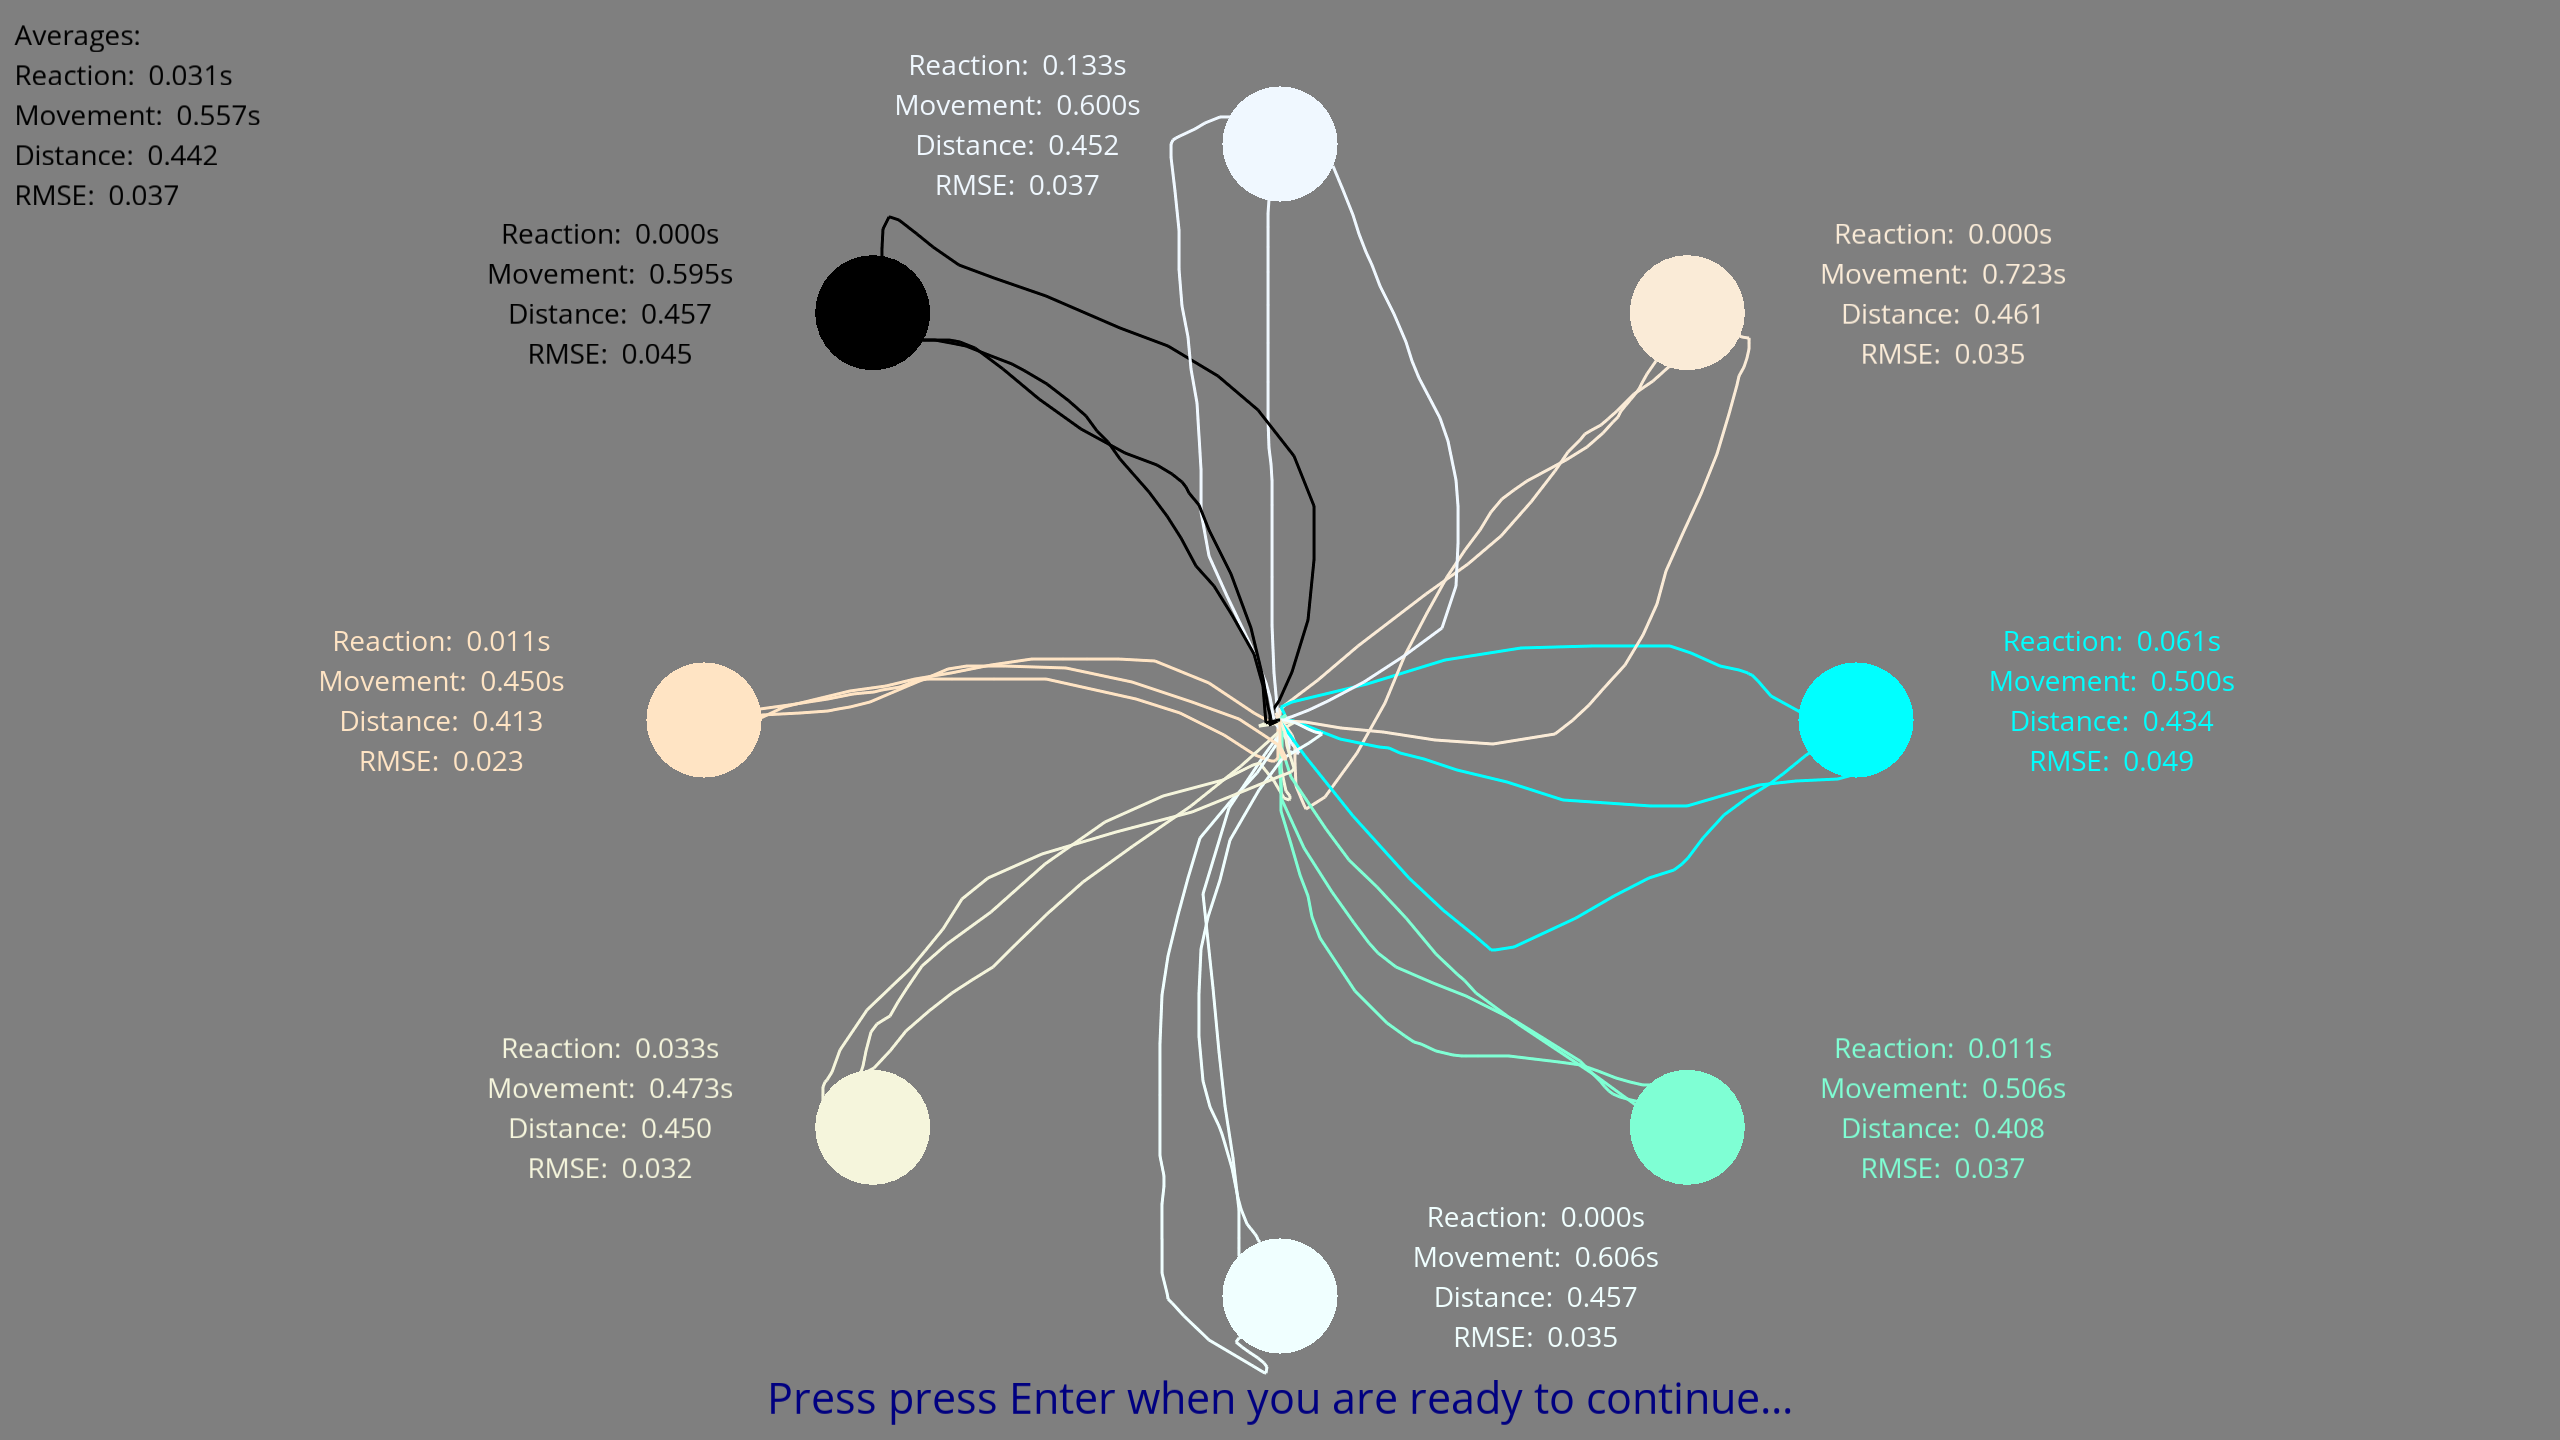
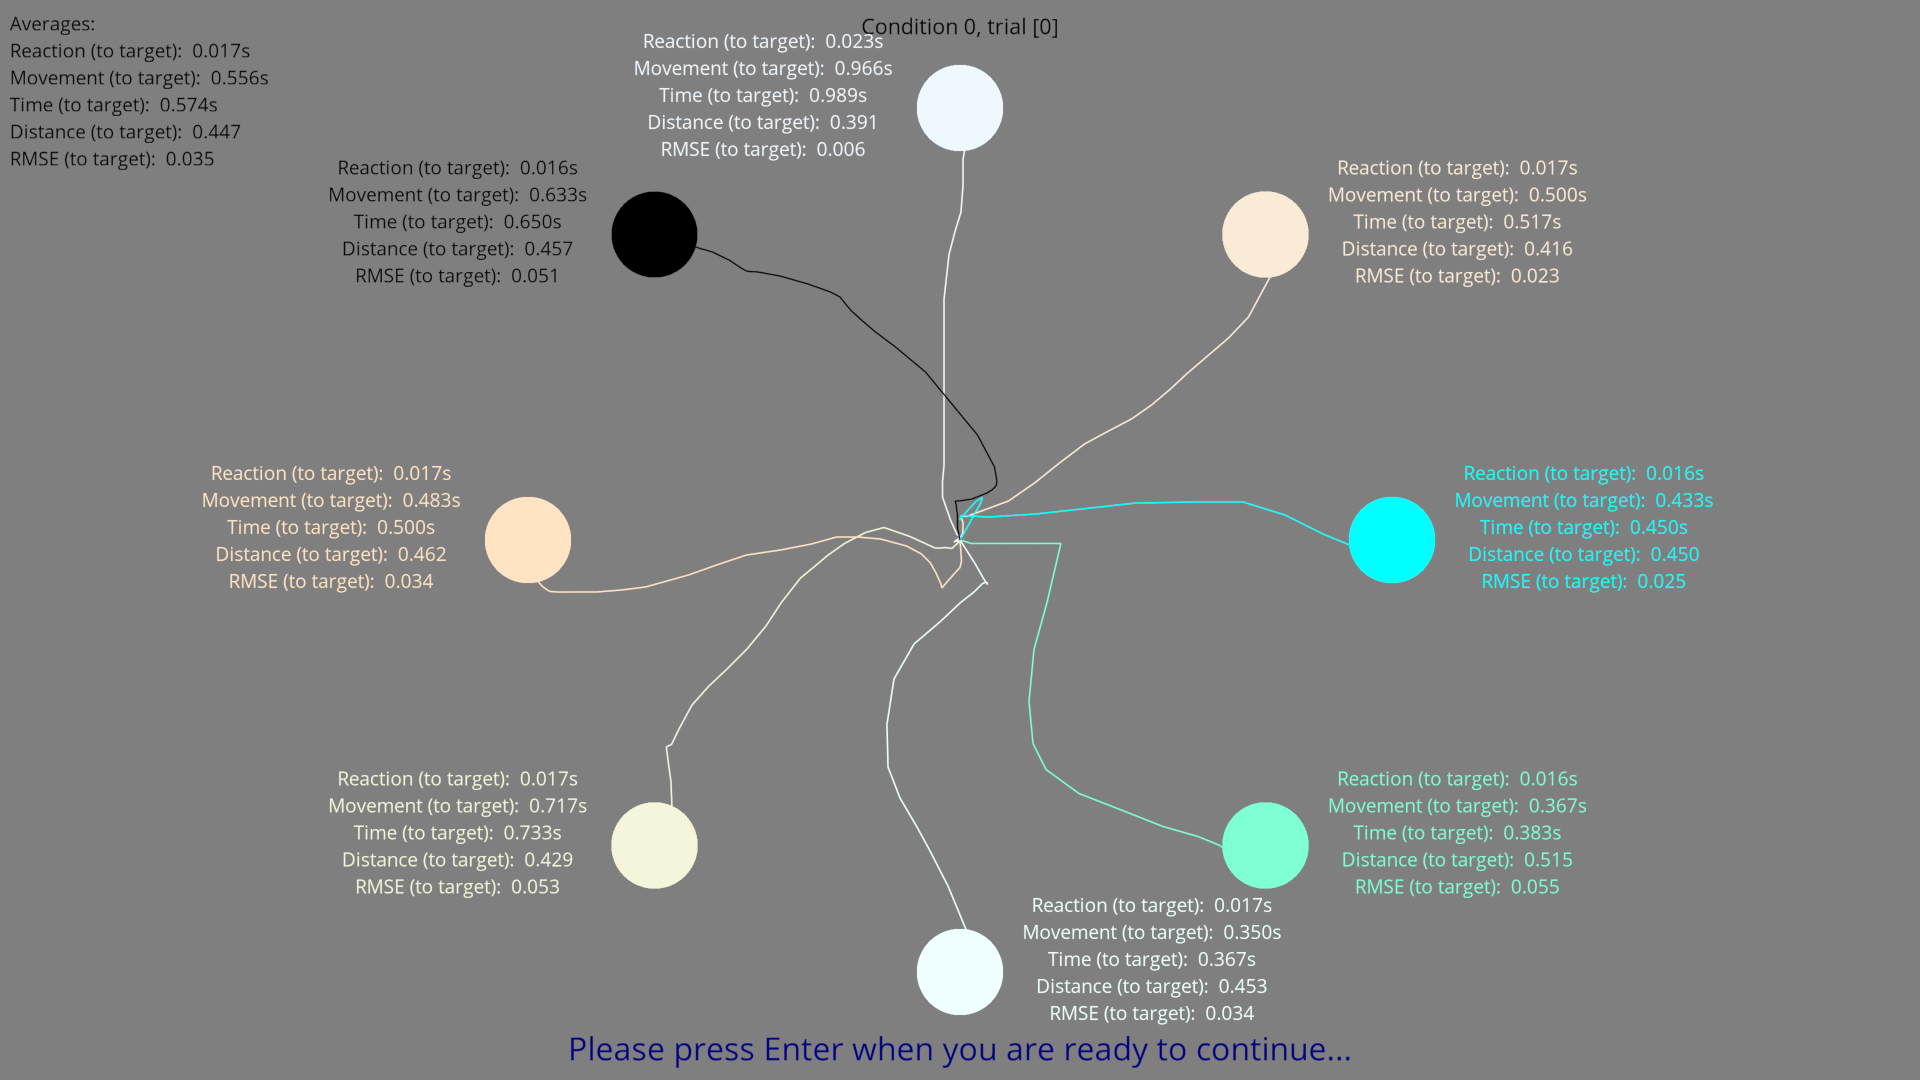
Update docs for first release
- update installation instructions
- update and rename install/update windows batch files
- update all screenshots, resolves #178

diff --git a/docs/conf.py b/docs/conf.py
@@ -15,9 +15,9 @@ sys.path.insert(0, os.path.abspath("../"))
 
 # -- Project information -----------------------------------------------------
 
-project = "vstt"
-copyright = "xxx"
-author = "xxx"
+project = "Visuomotor Serial Targeting Task"
+copyright = "2022"
+author = "SSC"
 
 
 # -- General configuration ---------------------------------------------------

diff --git a/src/vstt/__init__.py b/src/vstt/__init__.py
@@ -5,4 +5,4 @@ __all__ = [
     "__version__",
 ]
 
-__version__ = "0.24.0"
+__version__ = "0.25.0"

diff --git a/docs/quickstart/install.rst b/docs/quickstart/install.rst
@@ -4,9 +4,9 @@ Installation
 Windows with standalone Psychopy (recommended)
 ----------------------------------------------
 
-* Install `StandalonePsychoPy <https://github.com/psychopy/psychopy/releases/download/2022.2.4/StandalonePsychoPy-2022.2.4-win64.exe>`_
-* Download `UpdatePrototype.bat <https://github.com/ssciwr/vstt/releases/download/latest/UpdatePrototype.bat>`_ and double-click on it
-* Download `RunPrototype.bat <https://github.com/ssciwr/vstt/releases/download/latest/RunPrototype.bat>`_ and double-click on it
+* Install `StandalonePsychoPy <https://github.com/psychopy/psychopy/releases/download/2023.1.2/StandalonePsychoPy-2023.1.2-win64.exe>`_
+* Download `UpdateVSTT.bat <https://github.com/ssciwr/vstt/releases/download/latest/UpdateVSTT.bat>`_ and double-click on it
+* Download `VSTT.bat <https://github.com/ssciwr/vstt/releases/download/latest/VSTT.bat>`_ and double-click on it
 
 .. note::
    * Your browser might warn you about downloading batch files
@@ -15,29 +15,25 @@ Windows with standalone Psychopy (recommended)
    * The first time you run it you might get a "Windows protected your PC" message
       * This is also normal for a .bat file
       * Click more info -> run anyway
-   * What does `UpdatePrototype.bat` do?
-      * This installs the latest version of the prototype into your Psychopy Python environment using pip
-      * It runs this command: ``"C:\Program Files\PsychoPy\python.exe" -m pip install https://github.com/ssciwr/vstt/releases/download/latest/vstt-latest-py3-none-any.whl``
-   * What does `RunPrototype.bat` do?
-      * This runs the prototype using your Psychopy Python environment
+   * What does `UpdateVSTT.bat` do?
+      * This installs the latest version of VSTT into your Psychopy Python environment using pip
+      * It runs this command: ``"C:\Program Files\PsychoPy\python.exe" -m pip install --upgrade vstt``
+   * What does `VSTT.bat` do?
+      * This runs VSTT using your Psychopy Python environment
       * It runs this command: ``"C:\Program Files\PsychoPy\python.exe" -m vstt``
    * If in doubt you can always open the .bat file in notepad to see what commands it will run
    * If you have installed Psychopy in a non-default location you will need to update the paths
      in these batch files to point to the psychopy-installed python.exe.
 
-Alternative pip install
------------------------
+Pip install
+-----------
 
-If you already have a Python environment and git you can install using pip:
+VSTT can also be installed using pip:
 
-``pip install git+https://github.com/ssciwr/vstt``
-
-.. note::
-   On linux you will also need to give your Python executable permission
-   to set its own priority: ``sudo setcap cap_sys_nice=eip /path/to/python/binary``.
+``pip install vstt``
 
 .. note::
-   This method also installs the psychopy library with pip, which may need additional
-   system libraries and configuration steps to work properly,
-   which is probably why they provide standalone installers for
-   Psychopy on Windows and Mac which bundle all the requirements.
+   On linux the optional psychtoolbox dependency needs permission to set its priority. To allow this:
+      * ``sudo setcap cap_sys_nice+ep `python -c "import os; import sys; print(os.path.realpath(sys.executable))"``
+   Alternatively you can simply remove psychtoolbox
+      * ``pip uninstall psychtoolbox``

diff --git a/docs/developer/install.rst b/docs/developer/install.rst
@@ -1,5 +1,5 @@
-Installation
-============
+Developer installation
+======================
 
 Pre-requisites
 --------------
@@ -7,12 +7,13 @@ Pre-requisites
 The only dependency is `psychopy <https://www.psychopy.org/index.html>`_.
 Unfortunately, psychopy itself has a lot of dependencies, some of which are system libraries.
 
-* on Ubuntu 22.04 with Python 3.9 I needed to do
+* on Ubuntu 22.04 with Python 3.9
    * ``sudo apt-get install swig libasound2-dev portaudio19-dev libpulse-dev libusb-1.0-0-dev libsndfile1-dev libportmidi-dev liblo-dev libgtk-3-dev``
    * ``pip install wxPython`` (which took a long time to complete - alternative is to install a `pre-built wheel <https://extras.wxpython.org/wxPython4/extras/linux/gtk3/>`_)
-   * additionally, at runtime PTB/psychtoolbox needs extra permissions on linux to run
-      * short term fix: ``sudo setcap cap_sys_nice=eip /path/to/python/binary``
-      * see `this issue <https://discourse.psychopy.org/t/psychopy-keyboard-keyboard-psychhid-kbqueuestart-memory-fault/12005/6>`_
+   * additionally, at runtime psychtoolbox needs permission on linux to set its priority:
+      * ``sudo setcap cap_sys_nice+ep `python -c "import os; import sys; print(os.path.realpath(sys.executable))"``
+   * alternatively simply remove psychtoolbox (it is an optional psychopy dependency):
+      * ``pip uninstall psychtoolbox``
 
 Developer install
 -----------------
